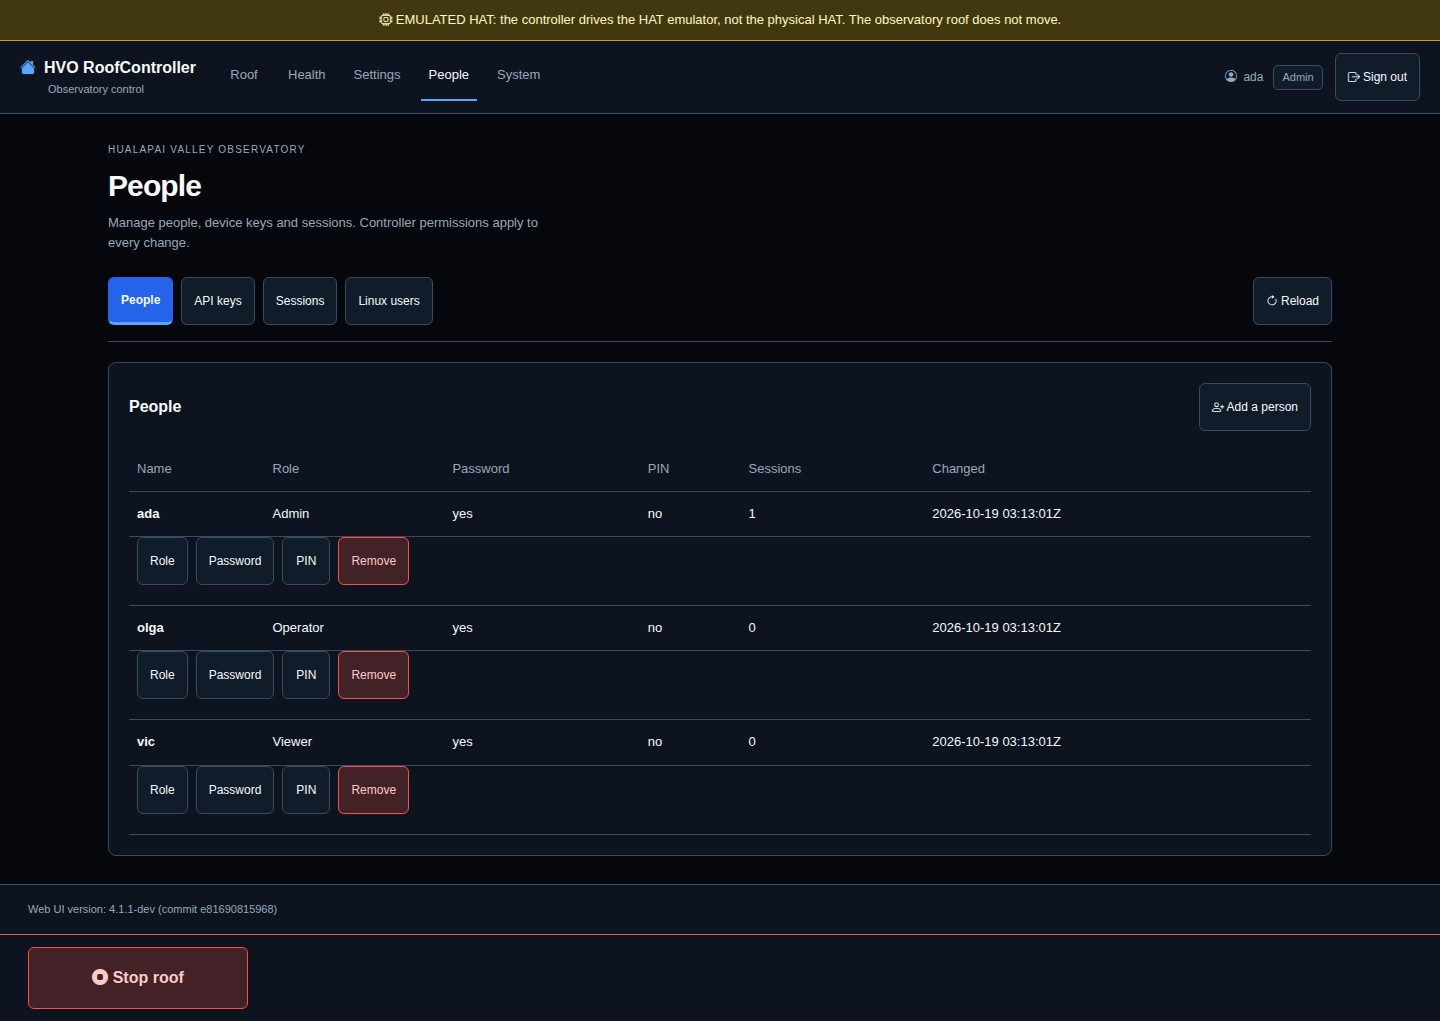
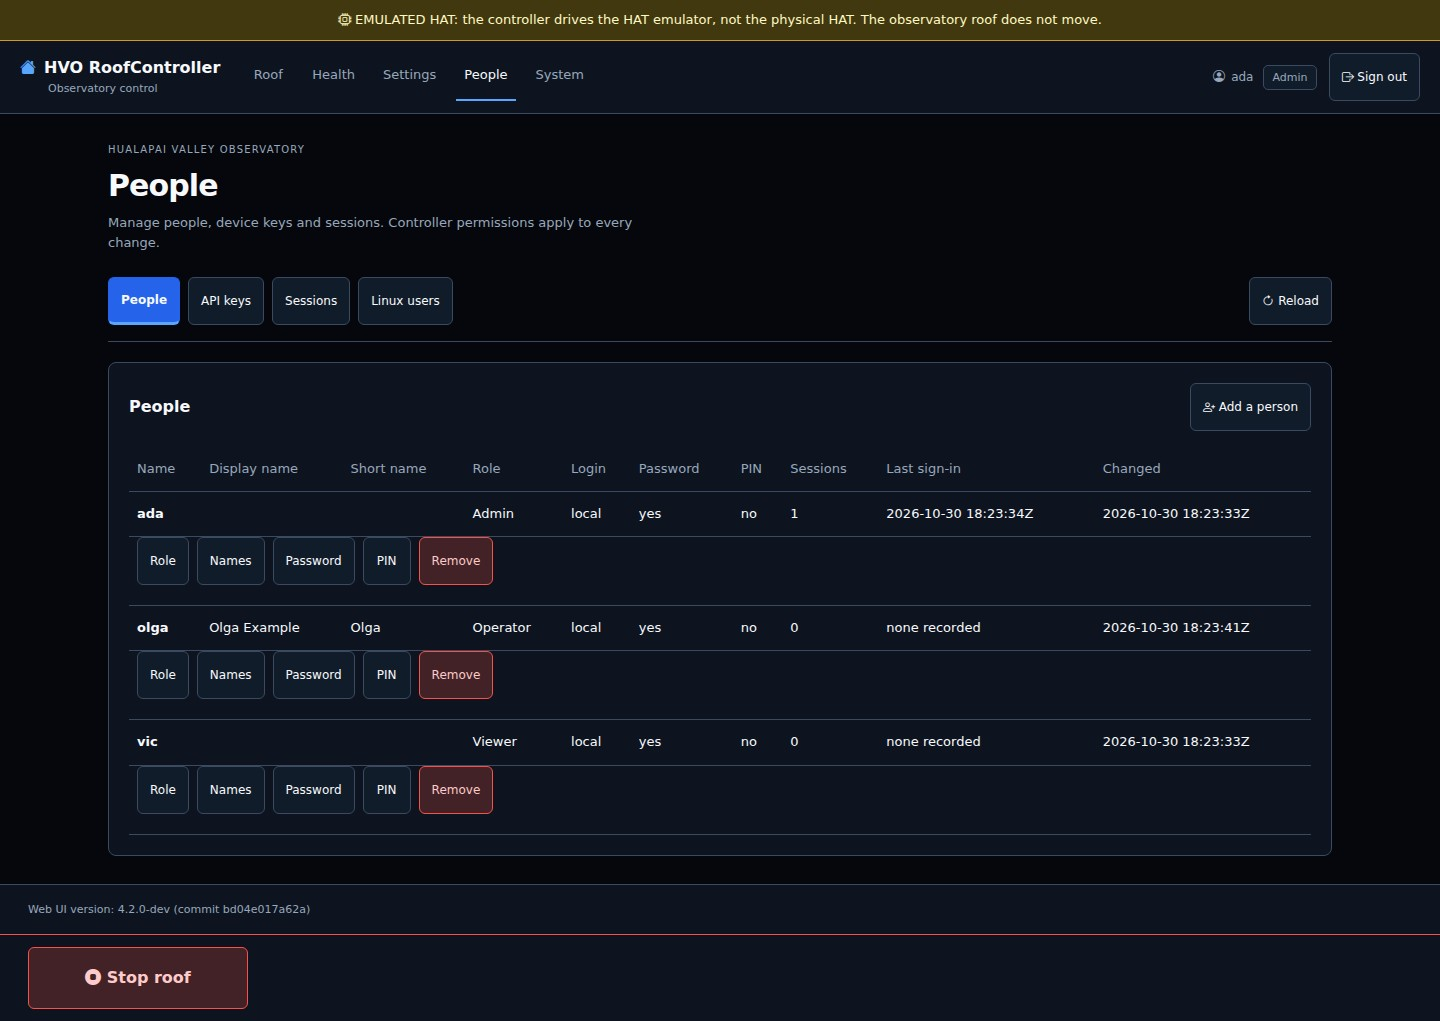
feat(web): people names, login type and last sign-in (#209)
The People table shows display and short names, login type and last
sign-in; Add takes the names and a Names panel sets or clears them; Linux
users show their last sign-in. The System screenshot masks the addresses.

diff --git a/tests/HVO.RoofControllerV4.RPi.Tests/Web/PeoplePageTests.cs b/tests/HVO.RoofControllerV4.RPi.Tests/Web/PeoplePageTests.cs
@@ -38,6 +38,7 @@ public sealed class PeoplePageTests
         cut.Click("[data-testid=people-tab][data-tab=linux]");
         cut.Click("[data-testid=linux-users] button");
         cut.WaitForElement("[data-testid=linux-user]");
+        cut.Find("[data-testid=linux-user-last-login]").TextContent.Should().Be($"Last sign-in: {RoofIdentityText.NoSignInRecorded}");
         cut.Click("[data-testid=linux-user] button");
         cut.Change("[data-testid=linux-role]", RoofControllerApiContract.OperatorRole);
         cut.Change("[data-testid=linux-user] input[type=checkbox]", false);
@@ -84,8 +85,8 @@ public sealed class PeoplePageTests
         var cut = Loaded(context);
 
         cut.FindAll("[data-testid=user]").Select(Row).ToList().Should().Equal(
-            "ada | Admin | yes | no | 1 | 2026-09-29 12:00:00Z",
-            "vic | Viewer | yes | no | 1 | 2026-09-29 12:00:00Z");
+            "ada |  |  | Admin | local | yes | no | 1 | 2026-09-29 12:00:00Z | 2026-09-29 12:00:00Z",
+            "vic |  |  | Viewer | local | yes | no | 1 | 2026-09-29 12:00:00Z | 2026-09-29 12:00:00Z");
 
         cut.Click("[data-testid=people-tab][data-tab=keys]");
         cut.WaitForAssertion(() => cut.FindAll("[data-testid=key]").Select(Row).ToList().Should().Contain(
@@ -118,7 +119,8 @@ public sealed class PeoplePageTests
 
         cut.WaitForAssertion(() => Message(cut).Should().Be("Added otto (Operator)."));
         cut.FindAll("[data-testid=user-add-form]").Should().BeEmpty();
-        Row(cut.Find("[data-testid=user][data-name=otto]")).Should().Be("otto | Operator | yes | yes | 0 | 2026-09-29 12:00:00Z");
+        Row(cut.Find("[data-testid=user][data-name=otto]")).Should().Be(
+            "otto |  |  | Operator | local | yes | yes | 0 | none recorded | 2026-09-29 12:00:00Z");
         using var anonymous = ClientTestSupport.CreateClient(harness.Host);
         (await anonymous.Auth.SignInAsync("otto", NewPassword)).Role.Should().Be(RoofControllerApiContract.OperatorRole);
     }
@@ -188,7 +190,7 @@ public sealed class PeoplePageTests
         cut.Click("[data-testid=user-panel-send]");
 
         cut.WaitForAssertion(() => Message(cut).Should().Be("vic is now Operator."));
-        Row(cut.Find("[data-testid=user][data-name=vic]")).Should().StartWith("vic | Operator | yes | no | 0 | ");
+        Row(cut.Find("[data-testid=user][data-name=vic]")).Should().StartWith("vic |  |  | Operator | local | yes | no | 0 | ");
         using var admin = harness.Admin();
         (await admin.Identity.GetSessionsAsync()).Select(open => open.Name).Should().NotContain("vic");
     }
@@ -217,13 +219,13 @@ public sealed class PeoplePageTests
         cut.Input("[data-testid=user-new-pin-again]", NewPin);
         cut.Click("[data-testid=user-panel-send]");
         cut.WaitForAssertion(() => Message(cut).Should().Be("Set the PIN of olga."));
-        Row(cut.Find("[data-testid=user][data-name=olga]")).Should().StartWith("olga | Operator | yes | yes | ");
+        Row(cut.Find("[data-testid=user][data-name=olga]")).Should().StartWith("olga |  |  | Operator | local | yes | yes | ");
 
         UserAction(cut, "olga", "user-pin-remove");
         cut.WaitForElement("[data-testid=user-panel]").TextContent.Should().Contain("Remove the PIN of olga? Their PIN sessions end.");
         cut.Click("[data-testid=user-panel-send]");
         cut.WaitForAssertion(() => Message(cut).Should().Be("Removed the PIN of olga."));
-        Row(cut.Find("[data-testid=user][data-name=olga]")).Should().StartWith("olga | Operator | yes | no | ");
+        Row(cut.Find("[data-testid=user][data-name=olga]")).Should().StartWith("olga |  |  | Operator | local | yes | no | ");
 
         using var anonymous = ClientTestSupport.CreateClient(harness.Host);
         (await anonymous.Auth.SignInAsync("olga", NewPassword)).Role.Should().Be(RoofControllerApiContract.OperatorRole, "the role was kept");
@@ -248,6 +250,99 @@ public sealed class PeoplePageTests
 
         cut.WaitForAssertion(() => Message(cut).Should().Be("Set the password of olga."));
         (await admin.Identity.GetUserAsync("olga")).Role.Should().Be(RoofControllerApiContract.ViewerRole, "another admin's change is not undone");
+    }
+
+    [TestMethod]
+    public async Task AnAdmin_AddsAPerson_WithTheirNames_AndTheListShowsThem()
+    {
+        using var harness = new WebAdminHarness();
+        var session = await harness.SignInAsync("ada", RoofControllerApiContract.AdminRole);
+        await using var context = harness.Context(session);
+        var cut = Loaded(context);
+
+        cut.Click("[data-testid=user-add]");
+        cut.WaitForElement("[data-testid=user-name]");
+        cut.Find("[data-testid=user-add-form]").TextContent.Should().Contain(RoofIdentityText.DisplayNameRule).And.Contain(RoofIdentityText.ShortNameRule);
+        cut.Input("[data-testid=user-name]", "otto");
+        cut.Input("[data-testid=user-display-name]", "  Otto Example ");
+        cut.Input("[data-testid=user-short-name]", "Otto");
+        cut.Input("[data-testid=user-password]", NewPassword);
+        cut.Input("[data-testid=user-password-again]", NewPassword);
+        cut.Click("[data-testid=user-add-send]");
+
+        cut.WaitForAssertion(() => Message(cut).Should().Be("Added otto (Viewer)."));
+        Row(cut.Find("[data-testid=user][data-name=otto]")).Should().Be(
+            "otto | Otto Example | Otto | Viewer | local | yes | no | 0 | none recorded | 2026-09-29 12:00:00Z");
+        using var admin = harness.Admin();
+        var otto = await admin.Identity.GetUserAsync("otto");
+        otto.DisplayName.Should().Be("Otto Example", "the name is trimmed before it is sent");
+        otto.ShortName.Should().Be("Otto");
+    }
+
+    [TestMethod]
+    public async Task ANamesChange_IsSaved_AndAnEmptyNameRemoved_WithoutEndingTheSessions()
+    {
+        using var harness = new WebAdminHarness();
+        var session = await harness.SignInAsync("ada", RoofControllerApiContract.AdminRole);
+        await harness.SignInAsync("vic", RoofControllerApiContract.ViewerRole);
+        using var admin = harness.Admin();
+        await admin.Identity.UpdateUserAsync("vic", new RoofUserUpdateRequest
+        {
+            Role = RoofControllerApiContract.ViewerRole,
+            DisplayName = "Vic Example",
+            ShortName = "Vic"
+        });
+        await using var context = harness.Context(session);
+        var cut = Loaded(context);
+
+        UserAction(cut, "vic", "user-names-change");
+        cut.WaitForElement("[data-testid=user-panel]").TextContent.Should().Contain(RoofIdentityText.NamesChangeEndsNothing);
+        cut.Find("[data-testid=user-new-display-name]").GetAttribute("value").Should().Be("Vic Example", "the panel opens with the names as they are");
+        cut.Find("[data-testid=user-new-short-name]").GetAttribute("value").Should().Be("Vic");
+        cut.Input("[data-testid=user-new-display-name]", "Victor Example");
+        cut.Input("[data-testid=user-new-short-name]", "  ");
+        cut.Click("[data-testid=user-panel-send]");
+
+        cut.WaitForAssertion(() => Message(cut).Should().Be("Set the names of vic."));
+        Row(cut.Find("[data-testid=user][data-name=vic]")).Should().StartWith("vic | Victor Example |  | Viewer | local | yes | no | 1 | ");
+        var vic = await admin.Identity.GetUserAsync("vic");
+        vic.DisplayName.Should().Be("Victor Example");
+        vic.ShortName.Should().BeNull("an empty name is removed");
+        vic.Role.Should().Be(RoofControllerApiContract.ViewerRole);
+        (await admin.Identity.GetSessionsAsync()).Select(open => open.Name).Should().Contain("vic", "a name change ends no session");
+    }
+
+    [TestMethod]
+    [DataRow("Otto\u0007", "", "A display name is optional: ")]
+    [DataRow("", "A short name too long", "A short name is optional: ")]
+    public async Task AName_ThatCannotBeRight_IsNotSent(string displayName, string shortName, string said)
+    {
+        using var harness = new WebAdminHarness();
+        var session = await harness.SignInAsync("ada", RoofControllerApiContract.AdminRole);
+        await using var context = harness.Context(session);
+        var cut = Loaded(context);
+
+        cut.Click("[data-testid=user-add]");
+        cut.WaitForElement("[data-testid=user-name]");
+        cut.Input("[data-testid=user-name]", "otto");
+        cut.Input("[data-testid=user-display-name]", displayName);
+        cut.Input("[data-testid=user-short-name]", shortName);
+        cut.Input("[data-testid=user-password]", NewPassword);
+        cut.Input("[data-testid=user-password-again]", NewPassword);
+        cut.Click("[data-testid=user-add-send]");
+        cut.WaitForAssertion(() => cut.Find("[data-testid=panel-error]").TextContent.Should().StartWith(said));
+        cut.Click("[data-testid=panel-cancel]");
+
+        UserAction(cut, "ada", "user-names-change");
+        cut.WaitForElement("[data-testid=user-new-display-name]");
+        cut.Input("[data-testid=user-new-display-name]", displayName);
+        cut.Input("[data-testid=user-new-short-name]", shortName);
+        cut.Click("[data-testid=user-panel-send]");
+        cut.WaitForAssertion(() => cut.Find("[data-testid=panel-error]").TextContent.Should().StartWith(said));
+        cut.FindAll("[data-testid=user-panel]").Should().ContainSingle("the panel stays open to correct it");
+
+        using var admin = harness.Admin();
+        (await admin.Identity.GetUsersAsync()).Should().ContainSingle().Which.DisplayName.Should().BeNull();
     }
 
     [TestMethod]

diff --git a/tests/HVO.RoofControllerV4.RPi.Tests/Browser/WebScreenshotTests.cs b/tests/HVO.RoofControllerV4.RPi.Tests/Browser/WebScreenshotTests.cs
@@ -12,7 +12,8 @@ namespace HVO.RoofControllerV4.RPi.Tests.Browser;
 /// <summary>
 /// The web UI's screenshots in <c>docs/web.md</c>: each page as an admin sees it, against the emulated roof and camera.
 /// Every page is visited on a phone, a tablet and a desktop and must be whole (no sideways scroll, and once signed in the
-/// mode banner shown) with no secret in it: the key panel is never opened, and the controller's host name is masked.
+/// mode banner shown) with no secret in it: the key panel is never opened, and the controller's host name and addresses
+/// are masked.
 /// The docs keep every page at the desktop, the sign-in and roof pages on the phone, and the roof page on the tablet, as
 /// JPEG to keep the repository small. The images go to <c>browser/screens</c> in the test results, or to <c>WEB_SCREENS_OUT</c> when it is
 /// set (the refresh in <c>docs/web.md</c> points it at <c>docs/images/web</c>).
@@ -95,14 +96,28 @@ public sealed class WebScreenshotTests
         // The first screen: the settings run on for several screens of fields.
         await shots.TakeAsync("05-settings", wholePage: false);
 
+        // One person with both names, so the list shows them (#209); the names are synthetic.
+        using (var admin = browser.AdminClient())
+        {
+            await admin.Identity.UpdateUserAsync(WebBrowser.Operator, new HVO.RoofControllerV4.Common.Models.RoofUserUpdateRequest
+            {
+                Role = HVO.RoofControllerV4.Common.Models.RoofControllerApiContract.OperatorRole,
+                DisplayName = "Olga Example",
+                ShortName = "Olga"
+            });
+        }
+
         await page.GotoAsync("/people");
         await Expect(page.GetByTestId("user").First).ToBeVisibleAsync();
         await shots.TakeAsync("06-people");
 
         await page.GotoAsync("/system");
-        await Expect(page.GetByTestId("system-fact").First).ToBeVisibleAsync();
+        await Expect(page.Locator("[data-testid=system-summary] [data-testid=system-fact]").First).ToBeVisibleAsync();
+        await Expect(page.Locator("[data-testid=system-information] [data-testid=system-fact]").First).ToBeVisibleAsync();
         await Expect(page.GetByTestId("restart")).ToBeVisibleAsync();
-        await shots.TakeAsync("07-system", mask: page.Locator("[data-testid=system-fact][data-label=Host]"));
+        // The host name and the addresses are this machine's: masked, so no private address is published.
+        await shots.TakeAsync("07-system", mask: page.Locator(
+            "[data-testid=system-fact][data-label=Host], [data-testid=system-fact][data-label=Addresses]"));
 
         // Secondary workflows use the same real components; leave all private inputs empty.
         await page.GotoAsync("/people");

diff --git a/tests/HVO.RoofControllerV4.RPi.Tests/Web/RoofWebHostTests.cs b/tests/HVO.RoofControllerV4.RPi.Tests/Web/RoofWebHostTests.cs
@@ -71,7 +71,6 @@ public sealed class RoofWebHostTests
 
     [TestMethod]
     [DataRow("/people")]
-    [DataRow("/system")]
     public async Task TheAdminPages_AreDeniedToAViewer(string page)
     {
         await using var host = await WebHost.StartAsync();
@@ -87,10 +86,26 @@ public sealed class RoofWebHostTests
     }
 
     [TestMethod]
+    public async Task TheSystemPage_IsOpenToAViewer_WithoutTheAdminSections()
+    {
+        await using var host = await WebHost.StartAsync();
+        using var browser = host.Browser();
+        await browser.SignInAsync("vic", FakeController.AdaPassword);
+
+        using var response = await browser.GetAsync("/system");
+        var html = await response.Content.ReadAsStringAsync();
+
+        response.StatusCode.Should().Be(HttpStatusCode.OK, "every role reads the controller's summary (#209)");
+        html.Should().Contain("data-testid=\"system-summary\"");
+        html.Should().NotContain("data-testid=\"role-denied\"");
+        html.Should().NotContain("data-testid=\"restart\"").And.NotContain("data-testid=\"forced-restart\"");
+    }
+
+    [TestMethod]
     [DataRow("vic", false)]
     [DataRow("olga", false)]
     [DataRow("ada", true)]
-    public async Task TheMenu_OffersTheAdminPages_OnlyToAnAdmin(string name, bool admin)
+    public async Task TheMenu_OffersTheAdminPages_OnlyToAnAdmin_AndSystemToEveryone(string name, bool admin)
     {
         await using var host = await WebHost.StartAsync();
         using var browser = host.Browser();
@@ -102,7 +117,7 @@ public sealed class RoofWebHostTests
         response.StatusCode.Should().Be(HttpStatusCode.OK, "everyone may read the settings their role allows");
         html.Should().Contain("href=\"settings\"");
         html.Contains("href=\"people\"", StringComparison.Ordinal).Should().Be(admin);
-        html.Contains("href=\"system\"", StringComparison.Ordinal).Should().Be(admin);
+        html.Should().Contain("href=\"system\"", "every role reads the controller's summary");
     }
 
     [TestMethod]

diff --git a/tests/HVO.RoofControllerV4.RPi.Tests/Browser/WebStopBrowserTests.cs b/tests/HVO.RoofControllerV4.RPi.Tests/Browser/WebStopBrowserTests.cs
@@ -29,7 +29,8 @@ public sealed class WebStopBrowserTests
         ("/health", "[data-testid=health-overall]"),
         ("/settings", "[data-testid=settings-summary]"),
         ("/people", "[data-testid=users]"),
-        ("/system", "[data-testid=system-fact]"),
+        // The host's details are read after the summary (an admin signs in here): the page is whole once they show.
+        ("/system", "[data-testid=system-information] [data-testid=system-fact]"),
         ("/account/password", "main h1"),
     ];
 

diff --git a/docs/web.md b/docs/web.md
@@ -69,12 +69,13 @@ pages, and when the check itself fails the page says nothing rather than somethi
 | Roof (`/`) | everyone | The position, what was commanded, Open, Close and Clear fault (Operator and Admin), the operator lease while a move started here runs, the roof camera, and the status in detail. |
 | Health (`/health`) | everyone | Whether the controller is running and ready, the container's supervisor, and the controller's health checks, the worst first. Checked again every `StatusRefreshSeconds`. |
 | Settings (`/settings`) | everyone | The settings by group, from the controller's catalogue: those the person's role may read, and the controller says which of them they may change. |
-| People (`/people`) | Admin | People (add, role, password, kiosk PIN, remove), API keys (add, rotate, change, remove) and sessions (end). |
-| System (`/system`) | Admin | The web UI's version, the controller's version, host and resource use, readiness, Restart, and Forced restart. |
+| People (`/people`) | Admin | People (add, display and short names, role, password, kiosk PIN, remove, with each one's login type and last sign-in), API keys (add, rotate, change, remove) and sessions (end). |
+| System (`/system`) | everyone | The web UI's version, the controller's summary (version, uptime, CPU, temperature, memory, disk and addresses) and readiness; for an admin, the host's details, Restart and Forced restart. |
 | Change password (`/account/password`) | everyone | The person's own password. |
 
-A Viewer and an Operator see Roof, Health and Settings in the navigation. Opening an admin page without the Admin role
-says so, and shows nothing of it. On every page, the sign-in page too, the **mode banner** says when the controller is
+A Viewer and an Operator see Roof, Health, Settings and System in the navigation; System shows them the controller's
+summary, without the host's details or the restarts. Opening an admin page (People) without the Admin role says so, and
+shows nothing of it. On every page, the sign-in page too, the **mode banner** says when the controller is
 not driving the observatory roof as in normal use (for example an emulated HAT), so an emulator or a simulation is never
 mistaken for the roof. Before sign-in the banner comes from the controller's anonymous `GET .../RoofControl/Mode`,
 which says only how the roof is driven. The sign-in page, with its Stop, is sent at once, and the banner and the
@@ -173,16 +174,29 @@ A setting that cannot be changed here says why, as the controller gives it.
 
 ### People
 
-![The People page: people, with their roles, and the API keys and sessions tabs](images/web/06-people-desktop.jpg)
+![The People page: people, with their names, roles, login type and last sign-in, and the API keys and sessions tabs](images/web/06-people-desktop.jpg)
 
 An admin adds people and sets their role, password and [kiosk](kiosk.md) PIN, adds and rotates API keys, and ends sessions
 ([Managing people, keys and sessions](security.md#managing-people-keys-and-sessions)). A new key's secret is shown
 once, as it is created; neither the page nor the controller shows it again.
 
+Each person's row shows their **display name** (a friendly name, up to 64 characters) and **short name** (up to 16, for
+narrow places such as the kiosk), both optional; how they sign in (**Login**: `local` for a person in the controller's
+identity store); and their **last sign-in**, with a password or a PIN (`none recorded` until they sign in after the
+controller began recording it). An admin gives the names when adding a person, or with **Names**; an empty name is
+removed, and a name change ends no session. The **Linux users** tab shows each enrolled account's last sign-in too.
+
 ### System
 
-![The System page: the web UI's version, the controller's facts, Restart, and Forced restart](images/web/07-system-desktop.jpg)
+![The System page: the web UI's version, the controller's summary, the host's details, Restart, and Forced restart](images/web/07-system-desktop.jpg)
 
+Every role sees the web UI's own version and the **controller's summary** (`GET System/Summary`): its version and
+uptime, the machine's uptime, CPU use, load and temperature, memory, the disk it keeps its data on, and its addresses
+(in a container, the container's). A value the controller could not read says `unavailable`; when the controller
+cannot be reached the page says `Controller unreachable.`, and **Refresh** reads it again. An admin also sees:
+
+- **Host details**: the application, host, operating system, runtime, start time and the controller process's memory
+  and CPU (`GET System/info` and `metrics`).
 - **Restart the controller** asks first (`Restart the controller? It stops the roof first, and does not answer until it has started again.`).
   The controller stops the roof, verifies the stop, and exits; the supervisor starts it again. A restart that would
   load a pending hand edit shows it, and needs confirming when it is safety-critical.
@@ -310,7 +324,7 @@ Nothing here needs the Pi, the HAT or the roof.
 
 - **The screenshots** above come from `WebScreenshotTests`, which signs in as an admin against the emulated roof and
   camera and visits every page on a phone, a tablet and a desktop. It checks that no page scrolls sideways and that no
-  page holds a key or a password; the key panel is never opened and the controller's host name is masked. To refresh
+  page holds a key or a password; the key panel is never opened and the controller's host name and addresses are masked. To refresh
   them, from `src/`:
 
   ```bash
@@ -349,4 +363,4 @@ See [Authentication and interface rights](authentication-interfaces.md) for veri
 
 ### Finding the installed version
 
-The footer shows the running **Web UI version**, including build identification. Administrators can read **System** for separately labelled last-read controller information. The local web version remains visible if the controller request fails; Refresh discards previous controller information before rereading.
+The footer shows the running **Web UI version**, including build identification. Everyone signed in can read **System** for the separately labelled, last-read controller version and summary; administrators see the host's details too. The local web version remains visible if the controller request fails; Refresh discards previous controller information before rereading.
